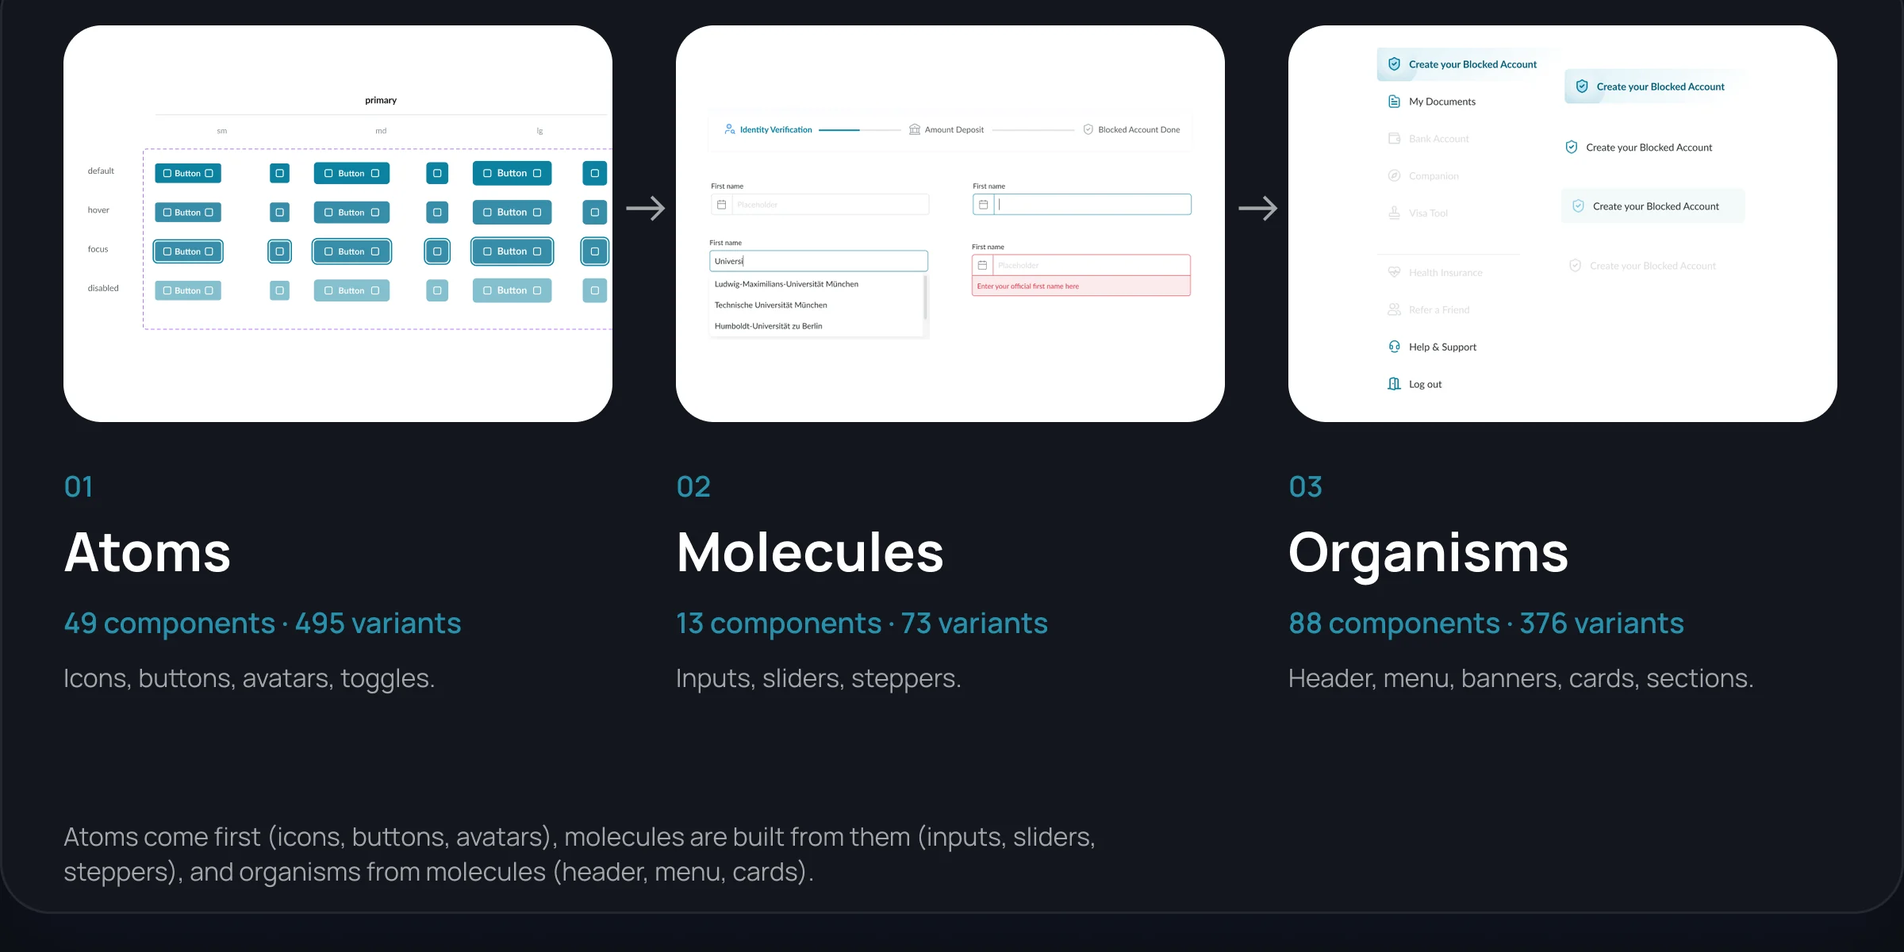
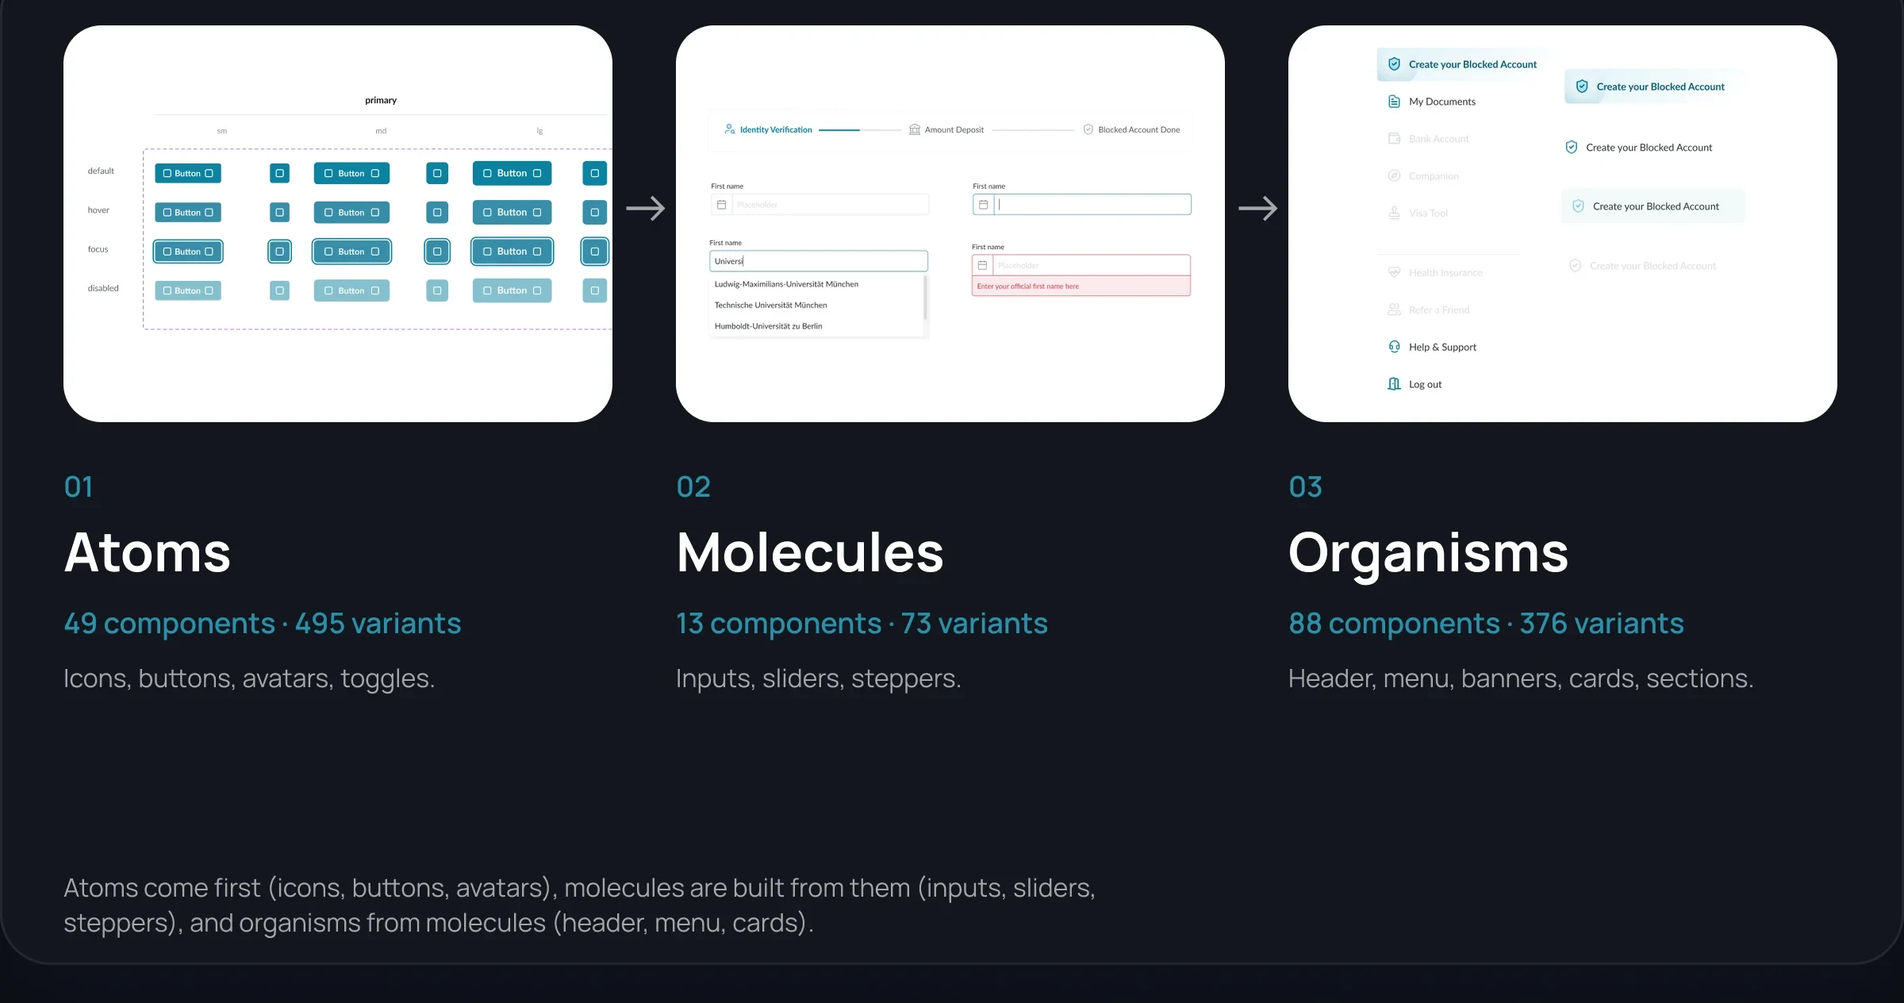
EN design system: restore original card heights so section backgrounds match
Claude-Session: https://claude.ai/code/session_011pq2ADq6rPTZrVGSK3qx6v

diff --git a/en/cases/design-system.html b/en/cases/design-system.html
@@ -91,12 +91,12 @@
       <div class="dtabs" role="tablist" aria-label="Context / Task"><button type="button" role="tab" class="dtab is-active" aria-selected="true">Context</button><button type="button" role="tab" class="dtab" aria-selected="false">Task</button></div>
       <div class="dpanel is-active" role="tabpanel"><div class="st">
         <div class="a dsh" style="--x:0; --y:96; --w:1200"><h2 class="dsh-fit"><span>Different screens,</span><span class="pl">shared elements</span></h2><p class="desc">The banking product had accumulated many forms, buttons, bottom sheets and icons. The same elements looked different.</p></div>
-        <div class="a" style="--x:0; --y:227; --w:1200"><div class="cimg only-d"><img src="../../assets/img/ds/card-context-en.webp?v=1793490000" width="2400" height="1082" loading="lazy" alt="Fragments of the Fintiba working file before the system: input fields with different focus and error states, buttons with different radii and borders, radio and switches with different backgrounds"></div><div class="mob only-m"><figure class="mfig"><img src="../../assets/img/ds/m-context-1.webp" width="716" height="784" loading="lazy" alt="Input fields before the system"><figcaption>Forms: focus as a left stripe, error in gray</figcaption></figure><figure class="mfig"><img src="../../assets/img/ds/m-context-2.webp" width="716" height="784" loading="lazy" alt="Buttons before the system"><figcaption>Buttons: different radii, heights and strokes</figcaption></figure><figure class="mfig"><img src="../../assets/img/ds/m-context-3.webp" width="716" height="784" loading="lazy" alt="Radio and switches before the system"><figcaption>Radios and toggles: different backgrounds and shapes</figcaption></figure><p class="mnote">Before: fragments of the working file</p></div></div>
+        <div class="a" style="--x:0; --y:227; --w:1200"><div class="cimg only-d"><img src="../../assets/img/ds/card-context-en.webp?v=1793500300" width="2400" height="1122" loading="lazy" alt="Fragments of the Fintiba working file before the system: input fields with different focus and error states, buttons with different radii and borders, radio and switches with different backgrounds"></div><div class="mob only-m"><figure class="mfig"><img src="../../assets/img/ds/m-context-1.webp" width="716" height="784" loading="lazy" alt="Input fields before the system"><figcaption>Forms: focus as a left stripe, error in gray</figcaption></figure><figure class="mfig"><img src="../../assets/img/ds/m-context-2.webp" width="716" height="784" loading="lazy" alt="Buttons before the system"><figcaption>Buttons: different radii, heights and strokes</figcaption></figure><figure class="mfig"><img src="../../assets/img/ds/m-context-3.webp" width="716" height="784" loading="lazy" alt="Radio and switches before the system"><figcaption>Radios and toggles: different backgrounds and shapes</figcaption></figure><p class="mnote">Before: fragments of the working file</p></div></div>
         <div class="a dsf" style="--x:0; --y:844; --w:1200"><span>Before: a set of screens without a system</span><span>04</span></div>
       </div></div>
       <div class="dpanel" role="tabpanel"><div class="st">
         <div class="a dsh" style="--x:0; --y:96; --w:1200"><h2><span>One system</span><span class="pl">for all screens</span></h2><p class="desc">Make the product look and behave the same on every screen — on web and mobile.</p></div>
-        <div class="a" style="--x:0; --y:227; --w:1200"><div class="cimg only-d"><img src="../../assets/img/ds/card-task-en.webp?v=1793490000" width="2400" height="1228" loading="lazy" alt="Before: 14 font sizes, 15 radii and 98 fill colors. Goal: unified names, states and rules. Three principles: unified names, unified states, usage rules"></div><div class="mob only-m"><div class="mcard mgoal"><p class="k" style="color:#d75656">Before</p><p class="mt">There were no shared rules: 14 font sizes, 15 radii and 98 fill colors on the same elements.</p><span class="marr" aria-hidden="true">↓</span><p class="k" style="color:#2990ab">Goal</p><p class="mt" style="color:#fff">A system: shared names, states and rules so designers and developers rely on the same thing.</p></div><div class="mwhite"><img src="../../assets/img/ds/m-task-1-en.webp?v=1793490000" width="670" height="400" loading="lazy" alt="Token name scheme button/primary/bg/hover"><p class="n"><b>01</b> Shared names</p><p>Tokens and components are named by purpose: the name shows where and in which state a color is used.</p></div><div class="mwhite"><img src="../../assets/img/ds/m-task-2.webp" width="670" height="400" loading="lazy" alt="Button in states default, hover, focus, disabled"><p class="n"><b>02</b> Shared states</p><p>Default, Hover, Focus and Disabled look and are named the same in every component.</p></div><div class="mwhite"><img src="../../assets/img/ds/m-task-3-en.webp?v=1793490000" width="670" height="400" loading="lazy" alt="Bottom sheet scheme with spacing and sizes"><p class="n"><b>03</b> Usage rules</p><p>Construction rules, for example for a bottom sheet: shape, spacing, typography and the action area.</p></div></div></div>
+        <div class="a" style="--x:0; --y:227; --w:1200"><div class="cimg only-d"><img src="../../assets/img/ds/card-task-en.webp?v=1793500300" width="2400" height="1278" loading="lazy" alt="Before: 14 font sizes, 15 radii and 98 fill colors. Goal: unified names, states and rules. Three principles: unified names, unified states, usage rules"></div><div class="mob only-m"><div class="mcard mgoal"><p class="k" style="color:#d75656">Before</p><p class="mt">There were no shared rules: 14 font sizes, 15 radii and 98 fill colors on the same elements.</p><span class="marr" aria-hidden="true">↓</span><p class="k" style="color:#2990ab">Goal</p><p class="mt" style="color:#fff">A system: shared names, states and rules so designers and developers rely on the same thing.</p></div><div class="mwhite"><img src="../../assets/img/ds/m-task-1-en.webp?v=1793490000" width="670" height="400" loading="lazy" alt="Token name scheme button/primary/bg/hover"><p class="n"><b>01</b> Shared names</p><p>Tokens and components are named by purpose: the name shows where and in which state a color is used.</p></div><div class="mwhite"><img src="../../assets/img/ds/m-task-2.webp" width="670" height="400" loading="lazy" alt="Button in states default, hover, focus, disabled"><p class="n"><b>02</b> Shared states</p><p>Default, Hover, Focus and Disabled look and are named the same in every component.</p></div><div class="mwhite"><img src="../../assets/img/ds/m-task-3-en.webp?v=1793490000" width="670" height="400" loading="lazy" alt="Bottom sheet scheme with spacing and sizes"><p class="n"><b>03</b> Usage rules</p><p>Construction rules, for example for a bottom sheet: shape, spacing, typography and the action area.</p></div></div></div>
         <div class="a dsf" style="--x:0; --y:922; --w:1200"><span>Task</span><span>04</span></div>
       </div></div>
     </section>
@@ -112,14 +112,14 @@
     <section class="dsec" style="--h:1006; background-image:url(../../assets/img/ds/bg-atomic.webp)">
       <div class="st">
         <div class="a dsh" style="--x:0; --y:96; --w:1200"><h2><span>Atomic</span><span class="pl">design</span></h2><p class="desc">I built the system in levels: from basic elements to complex interface blocks. That makes it easier to extend and check.</p></div>
-        <div class="a" style="--x:0; --y:227; --w:1200"><div class="cimg only-d"><img src="../../assets/img/ds/card-atomic-en.webp?v=1793490000" width="2400" height="1200" loading="lazy" alt="Three system levels: Atoms — 49 components and 495 variants, Molecules — 13 components and 73 variants, Organisms — 88 components and 376 variants"></div><div class="mob only-m"><div class="mlvl"><img src="../../assets/img/ds/m-atomic-1.webp" width="692" height="500" loading="lazy" alt="Atoms: button variants"><span class="num">01</span><h3>Atoms</h3><p class="cnt">49 components · 495 variants</p><p>Icons, buttons, avatars, toggles.</p></div><div class="mlvl"><img src="../../assets/img/ds/m-atomic-2.webp" width="692" height="500" loading="lazy" alt="Molecules: input fields and stepper"><span class="num">02</span><h3>Molecules</h3><p class="cnt">13 components · 73 variants</p><p>Inputs, sliders, steppers.</p></div><div class="mlvl"><img src="../../assets/img/ds/m-atomic-3.webp" width="692" height="500" loading="lazy" alt="Organisms: sidebar"><span class="num">03</span><h3>Organisms</h3><p class="cnt">88 components · 376 variants</p><p>Header, menu, banners, cards, sections.</p></div><p class="mnote">Atoms come first (icons, buttons, avatars), molecules are built from them (inputs, sliders, steppers), and organisms from molecules (header, menu, cards).</p></div></div>
+        <div class="a" style="--x:0; --y:227; --w:1200"><div class="cimg only-d"><img src="../../assets/img/ds/card-atomic-en.webp?v=1793500300" width="2400" height="1264" loading="lazy" alt="Three system levels: Atoms — 49 components and 495 variants, Molecules — 13 components and 73 variants, Organisms — 88 components and 376 variants"></div><div class="mob only-m"><div class="mlvl"><img src="../../assets/img/ds/m-atomic-1.webp" width="692" height="500" loading="lazy" alt="Atoms: button variants"><span class="num">01</span><h3>Atoms</h3><p class="cnt">49 components · 495 variants</p><p>Icons, buttons, avatars, toggles.</p></div><div class="mlvl"><img src="../../assets/img/ds/m-atomic-2.webp" width="692" height="500" loading="lazy" alt="Molecules: input fields and stepper"><span class="num">02</span><h3>Molecules</h3><p class="cnt">13 components · 73 variants</p><p>Inputs, sliders, steppers.</p></div><div class="mlvl"><img src="../../assets/img/ds/m-atomic-3.webp" width="692" height="500" loading="lazy" alt="Organisms: sidebar"><span class="num">03</span><h3>Organisms</h3><p class="cnt">88 components · 376 variants</p><p>Header, menu, banners, cards, sections.</p></div><p class="mnote">Atoms come first (icons, buttons, avatars), molecules are built from them (inputs, sliders, steppers), and organisms from molecules (header, menu, cards).</p></div></div>
         <div class="a dsf" style="--x:0; --y:915; --w:1200"><span>Methodology: atomic design</span><span>06</span></div>
       </div>
     </section>
     <section class="dsec" style="--h:926; background-image:url(../../assets/img/ds/bg-base.webp)">
       <div class="st">
         <div class="a dsh" style="--x:0; --y:96; --w:1200"><h2><span>System</span><span class="pl">foundation</span></h2><p class="desc">Three layers everything else rests on: colors, typography and icons. Each one in detail below.</p></div>
-        <div class="a" style="--x:0; --y:227; --w:1200"><div class="cimg only-d"><img src="../../assets/img/ds/card-base-en.webp?v=1793490000" width="2400" height="1040" loading="lazy" alt="System foundation: Primary and Secondary colors, Lato 400 and 700 typography with sizes from 12 to 36 px, icons for Web and Mobile with states"></div><div class="mob only-m"><figure class="mfig"><img src="../../assets/img/ds/m-base-1.webp" width="692" height="720" loading="lazy" alt="Teal and purple scales"><figcaption><b>Colors</b>Primary and Secondary, semantics for states</figcaption></figure><figure class="mfig"><img src="../../assets/img/ds/m-base-2.webp" width="692" height="720" loading="lazy" alt="Lato 400 and 700, sizes 12–36"><figcaption><b>Typography</b>Lato 400 and 700, 9 sizes from 12 to 36 px</figcaption></figure><figure class="mfig"><img src="../../assets/img/ds/m-base-3.webp" width="692" height="720" loading="lazy" alt="Icons in four states"><figcaption><b>Icons</b>Web and Mobile, with states</figcaption></figure></div></div>
+        <div class="a" style="--x:0; --y:227; --w:1200"><div class="cimg only-d"><img src="../../assets/img/ds/card-base-en.webp?v=1793500300" width="2400" height="1096" loading="lazy" alt="System foundation: Primary and Secondary colors, Lato 400 and 700 typography with sizes from 12 to 36 px, icons for Web and Mobile with states"></div><div class="mob only-m"><figure class="mfig"><img src="../../assets/img/ds/m-base-1.webp" width="692" height="720" loading="lazy" alt="Teal and purple scales"><figcaption><b>Colors</b>Primary and Secondary, semantics for states</figcaption></figure><figure class="mfig"><img src="../../assets/img/ds/m-base-2.webp" width="692" height="720" loading="lazy" alt="Lato 400 and 700, sizes 12–36"><figcaption><b>Typography</b>Lato 400 and 700, 9 sizes from 12 to 36 px</figcaption></figure><figure class="mfig"><img src="../../assets/img/ds/m-base-3.webp" width="692" height="720" loading="lazy" alt="Icons in four states"><figcaption><b>Icons</b>Web and Mobile, with states</figcaption></figure></div></div>
         <div class="a dsf" style="--x:0; --y:835; --w:1200"><span>System foundation</span><span>07</span></div>
       </div>
     </section>
@@ -146,7 +146,7 @@
     <section class="dsec" style="--h:1241; background-image:url(../../assets/img/ds/bg-type.webp)">
       <div class="st">
         <div class="a dsh" style="--x:0; --y:96; --w:1200"><h2><span>Typography and</span><span class="pl">spacing</span></h2><p class="desc">Lato in two weights, nine sizes, 12 spacing tokens and a scale of 11 radii.</p></div>
-        <div class="a" style="--x:0; --y:219; --w:1200"><div class="cimg only-d"><img src="../../assets/img/ds/card-type-en.webp?v=1793490000" width="2400" height="1710" loading="lazy" alt="Documentation: Lato typography with sizes from 12 to 36 px, spacing tokens and radius scale"></div><div class="mob only-m"><figure class="mfig"><a class="zoom" href="../../assets/img/ds/m-type-1.webp" target="_blank" rel="noopener" aria-label="Open larger: Documentation: Lato typography, sizes 12–36 px"><img src="../../assets/img/ds/m-type-1.webp" width="1098" height="1492" loading="lazy" alt="Documentation: Lato typography, sizes 12–36 px"></a><figcaption>Typography: Lato 400 and 700, sizes 12–36 px</figcaption></figure><figure class="mfig"><a class="zoom" href="../../assets/img/ds/m-type-2.webp" target="_blank" rel="noopener" aria-label="Open larger: Documentation: spacing tokens and radius scale"><img src="../../assets/img/ds/m-type-2.webp" width="1098" height="1490" loading="lazy" alt="Documentation: spacing tokens and radius scale"></a><figcaption>Spacing and radii</figcaption></figure><p class="mnote">Tap the image to open it larger.</p></div></div>
+        <div class="a" style="--x:0; --y:219; --w:1200"><div class="cimg only-d"><img src="../../assets/img/ds/card-type-en.webp?v=1793500300" width="2400" height="1750" loading="lazy" alt="Documentation: Lato typography with sizes from 12 to 36 px, spacing tokens and radius scale"></div><div class="mob only-m"><figure class="mfig"><a class="zoom" href="../../assets/img/ds/m-type-1.webp" target="_blank" rel="noopener" aria-label="Open larger: Documentation: Lato typography, sizes 12–36 px"><img src="../../assets/img/ds/m-type-1.webp" width="1098" height="1492" loading="lazy" alt="Documentation: Lato typography, sizes 12–36 px"></a><figcaption>Typography: Lato 400 and 700, sizes 12–36 px</figcaption></figure><figure class="mfig"><a class="zoom" href="../../assets/img/ds/m-type-2.webp" target="_blank" rel="noopener" aria-label="Open larger: Documentation: spacing tokens and radius scale"><img src="../../assets/img/ds/m-type-2.webp" width="1098" height="1490" loading="lazy" alt="Documentation: spacing tokens and radius scale"></a><figcaption>Spacing and radii</figcaption></figure><p class="mnote">Tap the image to open it larger.</p></div></div>
         <div class="a dsf" style="--x:0; --y:1150; --w:1200"><span>Typography and spacing</span><span>10</span></div>
       </div>
     </section>
@@ -197,7 +197,7 @@
     <section class="dsec" style="--h:1956; background-image:url(../../assets/img/ds/bg-nav.webp)">
       <div class="st">
         <div class="a dsh" style="--x:0; --y:96; --w:1200"><h2><span>Navigation and</span><span class="pl">organisms</span></h2><p class="desc">I drew the sidebar, bottom bar, header and icons from scratch; every element has states.</p></div>
-        <div class="a" style="--x:0; --y:227; --w:1200"><div class="cimg only-d"><img src="../../assets/img/ds/card-nav-en.webp?v=1793490000" width="2400" height="3125" loading="lazy" alt="Sidebar with menu items, mobile header and bottom bar, web header and Icon Web set in states Active, Default, Hover, Disabled"></div><div class="mob only-m"><figure class="mfig"><a class="zoom" href="../../assets/img/ds/m-nav-1.webp" target="_blank" rel="noopener" aria-label="Open larger: Sidebar: menu items and states"><img src="../../assets/img/ds/m-nav-1.webp" width="1098" height="1098" loading="lazy" alt="Sidebar: menu items and states"></a><figcaption>Sidebar: menu items and states</figcaption></figure><figure class="mfig"><a class="zoom" href="../../assets/img/ds/m-nav-2.webp" target="_blank" rel="noopener" aria-label="Open larger: Mobile header and bottom bar"><img src="../../assets/img/ds/m-nav-2.webp" width="1098" height="1098" loading="lazy" alt="Mobile header and bottom bar"></a><figcaption>Mobile header and bottom bar</figcaption></figure><figure class="mfig"><a class="zoom" href="../../assets/img/ds/m-nav-3.webp" target="_blank" rel="noopener" aria-label="Open larger: Web header: greeting, language, notifications, profile"><img src="../../assets/img/ds/m-nav-3.webp" width="1600" height="340" loading="lazy" alt="Web header: greeting, language, notifications, profile"></a><figcaption>Header: greeting, language, notifications, profile and states</figcaption></figure><figure class="mfig"><a class="zoom" href="../../assets/img/ds/m-nav-4.webp" target="_blank" rel="noopener" aria-label="Open larger: Icons as a component with Title and State properties"><img src="../../assets/img/ds/m-nav-4.webp" width="1600" height="800" loading="lazy" alt="Icons as a component with Title and State properties"></a><figcaption>Icons as a component: Title and State properties — Active, Default, Hover, Disabled</figcaption></figure></div></div>
+        <div class="a" style="--x:0; --y:227; --w:1200"><div class="cimg only-d"><img src="../../assets/img/ds/card-nav-en.webp?v=1793500300" width="2400" height="3164" loading="lazy" alt="Sidebar with menu items, mobile header and bottom bar, web header and Icon Web set in states Active, Default, Hover, Disabled"></div><div class="mob only-m"><figure class="mfig"><a class="zoom" href="../../assets/img/ds/m-nav-1.webp" target="_blank" rel="noopener" aria-label="Open larger: Sidebar: menu items and states"><img src="../../assets/img/ds/m-nav-1.webp" width="1098" height="1098" loading="lazy" alt="Sidebar: menu items and states"></a><figcaption>Sidebar: menu items and states</figcaption></figure><figure class="mfig"><a class="zoom" href="../../assets/img/ds/m-nav-2.webp" target="_blank" rel="noopener" aria-label="Open larger: Mobile header and bottom bar"><img src="../../assets/img/ds/m-nav-2.webp" width="1098" height="1098" loading="lazy" alt="Mobile header and bottom bar"></a><figcaption>Mobile header and bottom bar</figcaption></figure><figure class="mfig"><a class="zoom" href="../../assets/img/ds/m-nav-3.webp" target="_blank" rel="noopener" aria-label="Open larger: Web header: greeting, language, notifications, profile"><img src="../../assets/img/ds/m-nav-3.webp" width="1600" height="340" loading="lazy" alt="Web header: greeting, language, notifications, profile"></a><figcaption>Header: greeting, language, notifications, profile and states</figcaption></figure><figure class="mfig"><a class="zoom" href="../../assets/img/ds/m-nav-4.webp" target="_blank" rel="noopener" aria-label="Open larger: Icons as a component with Title and State properties"><img src="../../assets/img/ds/m-nav-4.webp" width="1600" height="800" loading="lazy" alt="Icons as a component with Title and State properties"></a><figcaption>Icons as a component: Title and State properties — Active, Default, Hover, Disabled</figcaption></figure></div></div>
         <div class="a dsf" style="--x:0; --y:1865; --w:1200"><span>Navigation and organisms</span><span>16</span></div>
       </div>
     </section>
@@ -217,7 +217,7 @@
     <section class="dsec" style="--h:1302; background-image:url(../../assets/img/ds/bg-product.webp)">
       <div class="st">
         <div class="a dsh" style="--x:0; --y:96; --w:1200"><h2><span>System</span><span class="pl">in the product</span></h2><p class="desc">Screens from the top-up and login flows: how the system looks in the live product.</p></div>
-        <div class="a" style="--x:0; --y:227; --w:1200"><div class="cimg only-d"><img src="../../assets/img/ds/card-product-en.webp?v=1793490000" width="2400" height="1792" loading="lazy" alt="Three product screens: payment methods, payer details and account login"></div><div class="mob only-m"><div class="mphones"><figure><img src="../../assets/img/ds/m-product-1.webp" width="692" height="1504" loading="lazy" alt="Payment methods"><figcaption><b>Payment methods</b>Cards with states, Instant and Non-Instant statuses, links to details.</figcaption></figure><figure><img src="../../assets/img/ds/m-product-2.webp" width="692" height="1504" loading="lazy" alt="Payer details"><figcaption><b>Payer details</b>Input fields with icons, hints and a disabled button.</figcaption></figure><figure><img src="../../assets/img/ds/m-product-3.webp" width="692" height="1504" loading="lazy" alt="Log in"><figcaption><b>Log in</b>A primary button, an input field, Google sign-in and a disabled button state.</figcaption></figure></div></div></div>
+        <div class="a" style="--x:0; --y:227; --w:1200"><div class="cimg only-d"><img src="../../assets/img/ds/card-product-en.webp?v=1793500300" width="2400" height="1856" loading="lazy" alt="Three product screens: payment methods, payer details and account login"></div><div class="mob only-m"><div class="mphones"><figure><img src="../../assets/img/ds/m-product-1.webp" width="692" height="1504" loading="lazy" alt="Payment methods"><figcaption><b>Payment methods</b>Cards with states, Instant and Non-Instant statuses, links to details.</figcaption></figure><figure><img src="../../assets/img/ds/m-product-2.webp" width="692" height="1504" loading="lazy" alt="Payer details"><figcaption><b>Payer details</b>Input fields with icons, hints and a disabled button.</figcaption></figure><figure><img src="../../assets/img/ds/m-product-3.webp" width="692" height="1504" loading="lazy" alt="Log in"><figcaption><b>Log in</b>A primary button, an input field, Google sign-in and a disabled button state.</figcaption></figure></div></div></div>
         <div class="a dsf" style="--x:0; --y:1211; --w:1200"><span>System in the product</span><span>18</span></div>
       </div>
     </section>
